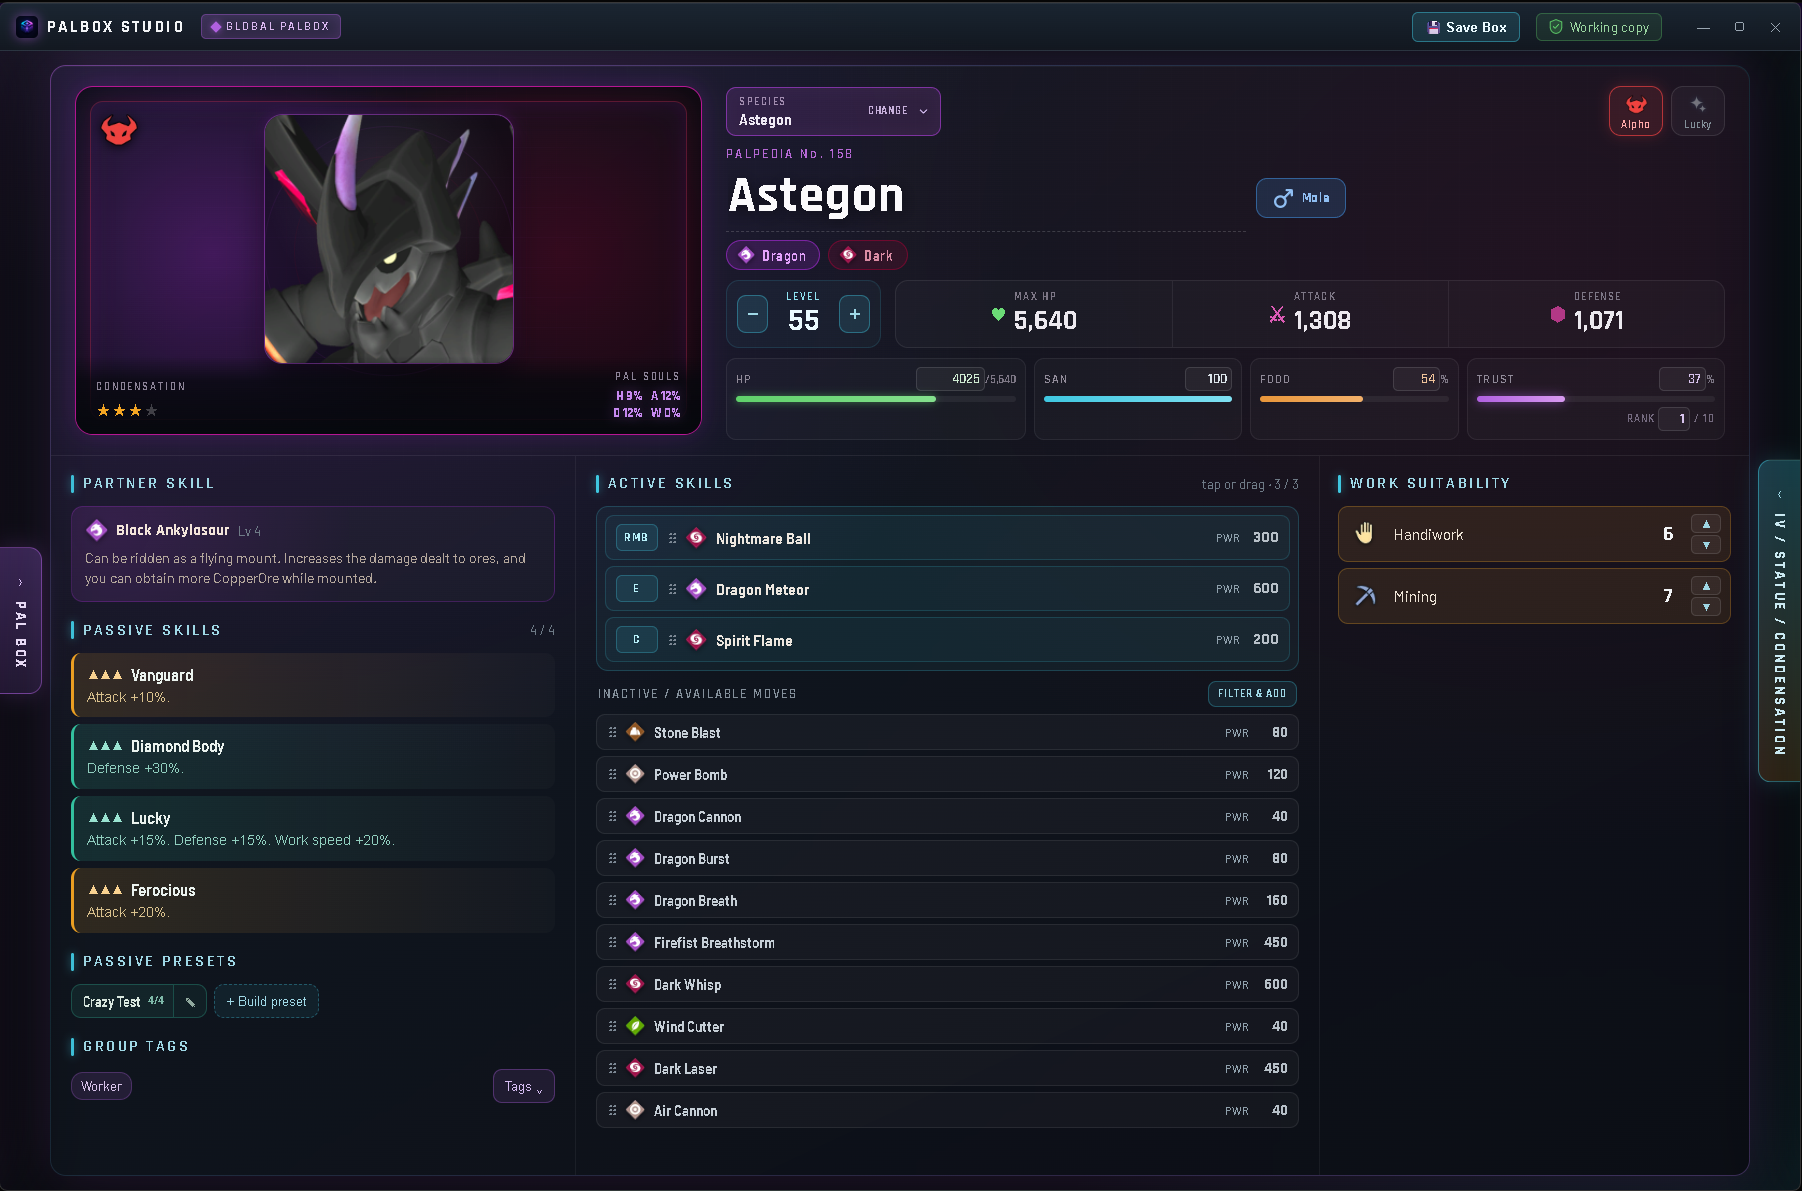
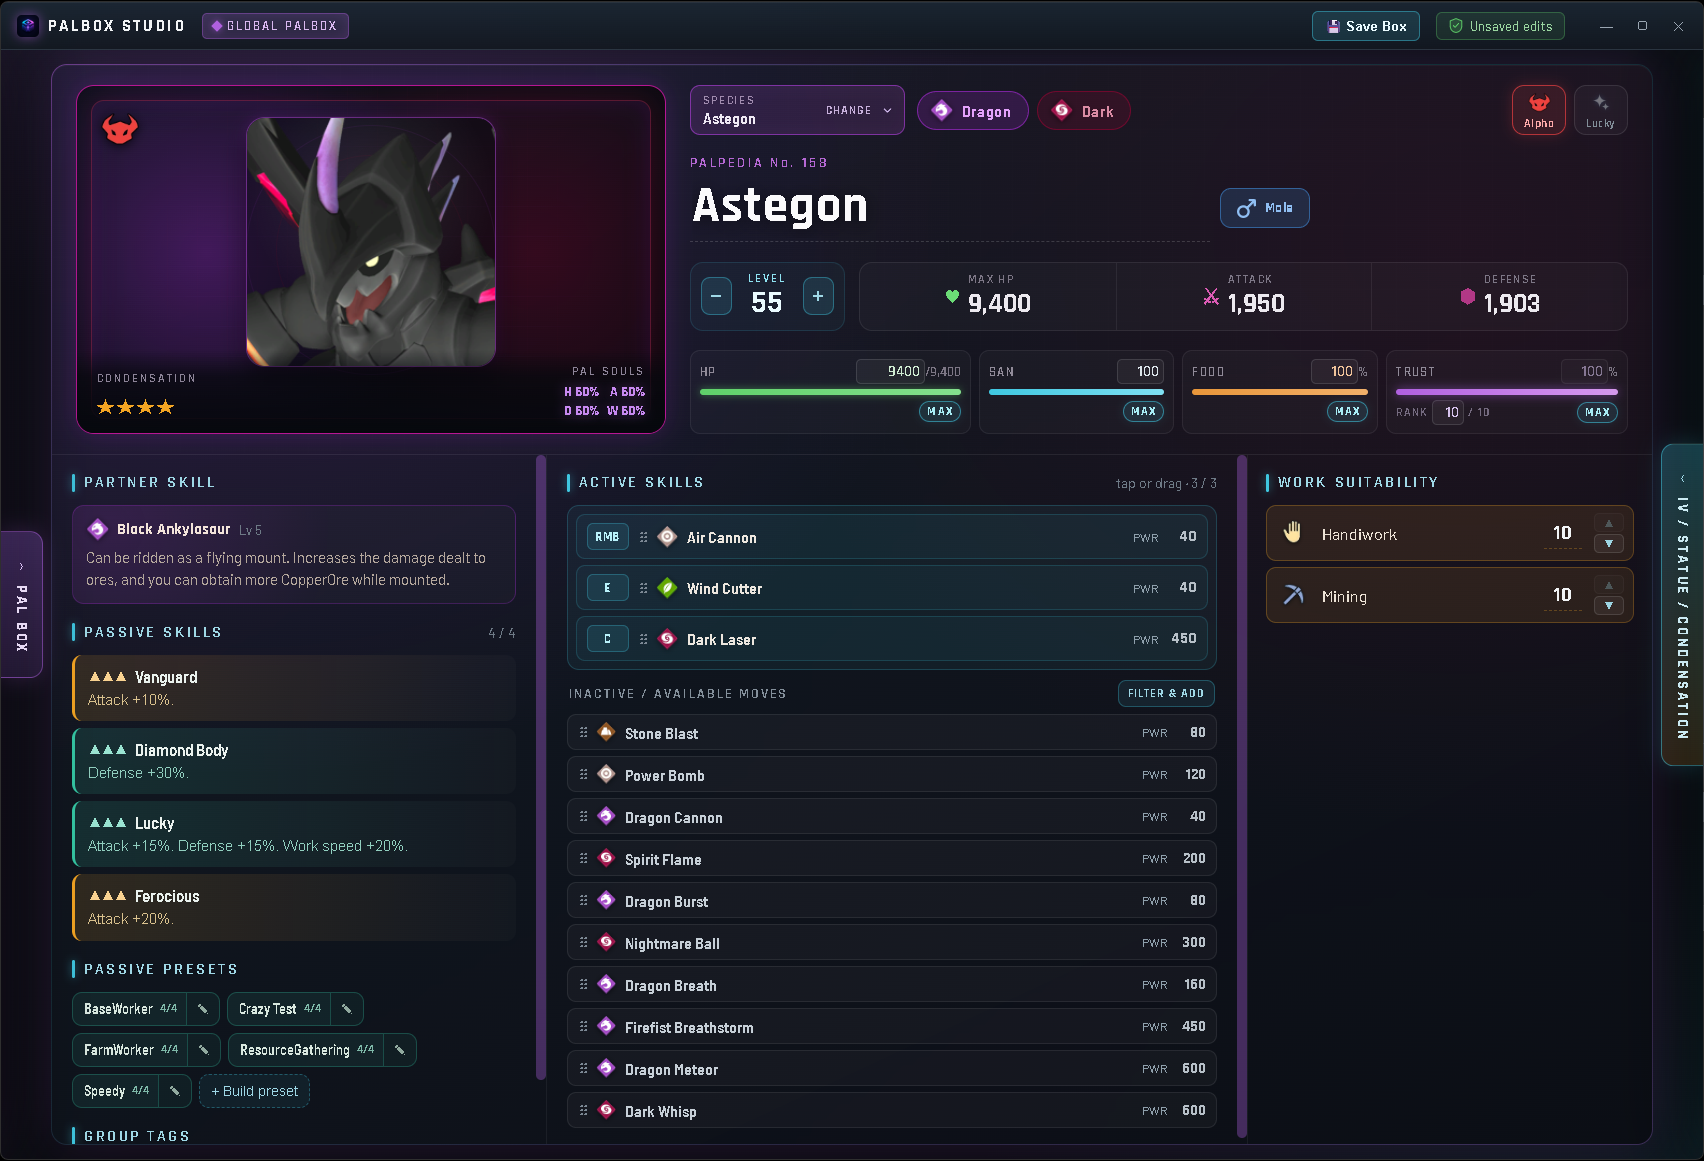
docs: refresh landing pages and screenshots

diff --git a/README.md b/README.md
@@ -116,6 +116,24 @@ Choose active skills from a filterable list, with each move's element and power 
 
 ---
 
+## 🆕 Latest changes
+
+The latest development update adds Palworld 1.0 Awakening support and a focused set of editor
+improvements:
+
+- Awaken fully condensed Pals using Palworld's separate Awakening value; selecting Awakened also
+  sets condensation to four displayed stars.
+- See HP, Attack, and Defense refresh immediately while changing progression, IVs, passives, or
+  Alpha/Lucky status.
+- Keep HP, SAN, Food, or Trust at MAX using preferences remembered between sessions.
+- Type Work Suitability levels directly while seeing only the jobs relevant to that species.
+- Start a passive preset from the selected Pal's current passives.
+- Create new Pals with explicit 50/50/50 IVs and the complete writable save schema.
+
+See the [full 1.2.0 release notes](docs/RELEASE-NOTES-1.2.0.md) for the detailed change list.
+
+---
+
 ## ⬇ Installation
 
 Download the latest build from the [Releases](../../releases) page or from Nexus Mods.

diff --git a/docs/screenshots/README.md b/docs/screenshots/README.md
@@ -9,7 +9,7 @@ Drop your captures here using these **exact filenames** — the main
 | `02-palbox-explorer.png` | The GLOBAL PAL BOX side panel — the box explorer |
 | `03-expanded-explorer.png` | The expanded full-gallery view (⤢ Expand) |
 | `04-species-selector.png` | The species selector picker (icon grid + filter) |
-| `05-stats.png` | The PROGRESSION drawer — IVs, Pal Souls, condensation, work suitabilities |
+| `05-stats.png` | The PROGRESSION drawer — IVs, Pal Souls, condensation, and Awakening |
 | `06-passive-filter.png` | The passive-skill picker / filter |
 | `07-pal-move-filter.png` | The move picker / filter |
 
